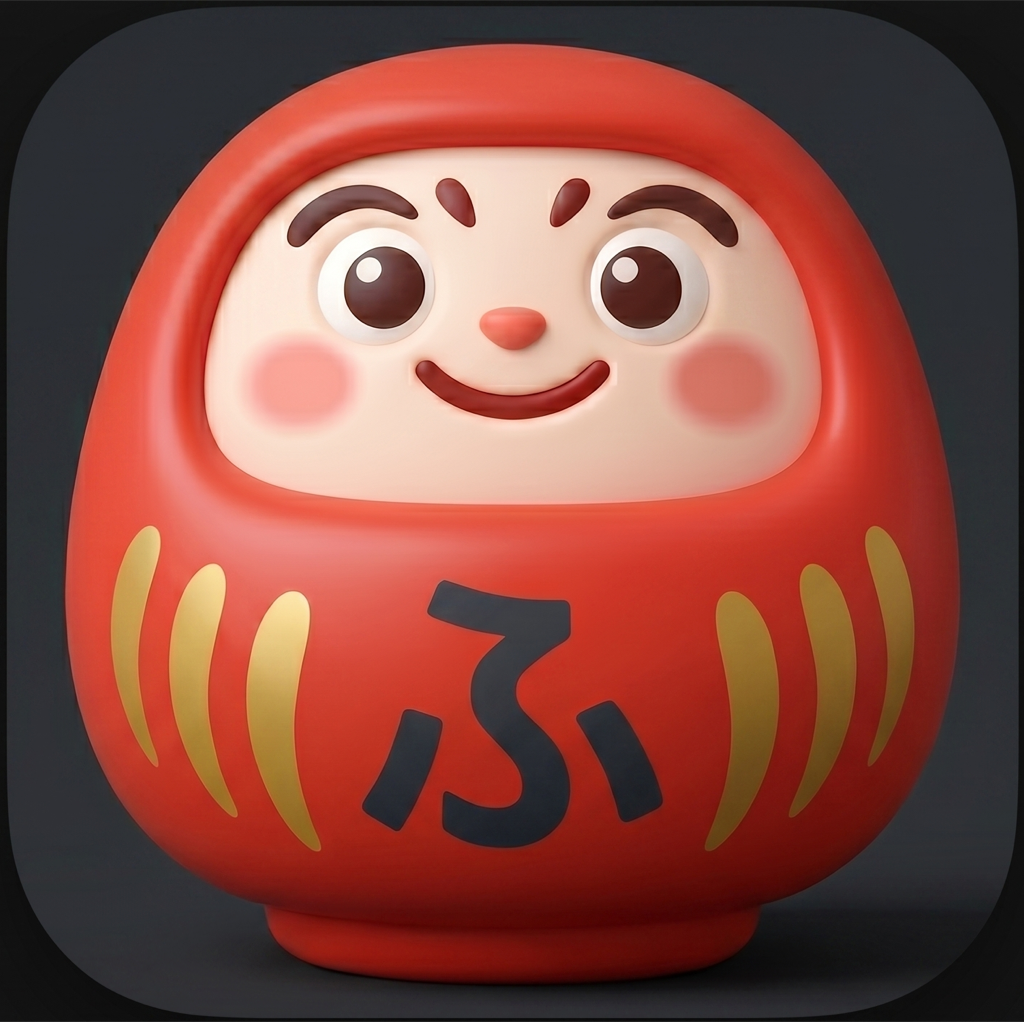
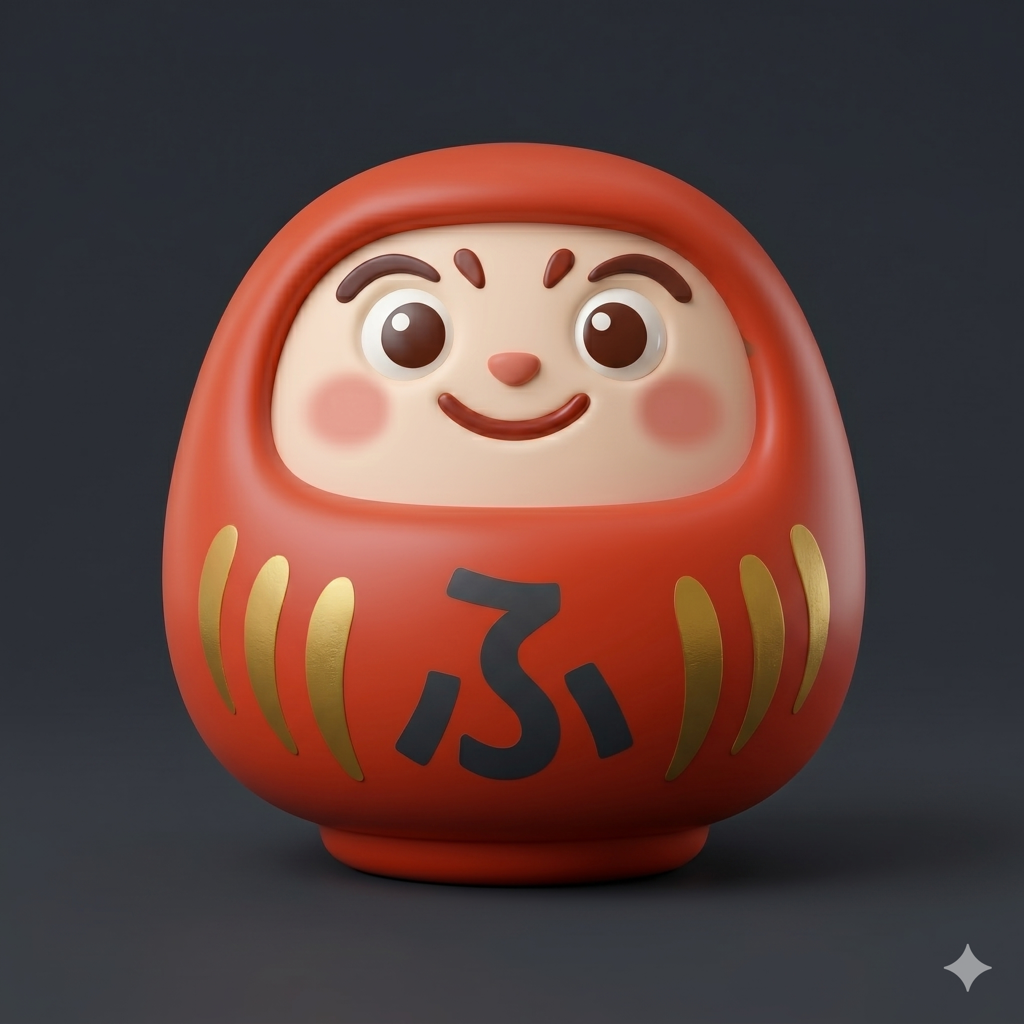
chore: migrate fonts to M PLUS Rounded 1c, remove unused assets, ignore GRAPHICS.md

diff --git a/app/_layout.tsx b/app/_layout.tsx
@@ -11,11 +11,11 @@ import { ThemeProvider } from '../context/ThemeContext';
 
 import { 
   useFonts, 
-  NotoSansJP_400Regular, 
-  NotoSansJP_700Bold, 
-  NotoSansJP_500Medium,
-  NotoSansJP_300Light 
-} from '@expo-google-fonts/noto-sans-jp';
+  MPLUSRounded1c_400Regular, 
+  MPLUSRounded1c_700Bold, 
+  MPLUSRounded1c_500Medium,
+  MPLUSRounded1c_300Light 
+} from '@expo-google-fonts/m-plus-rounded-1c';
 import * as SplashScreen from 'expo-splash-screen';
 
 import { ClerkProvider, ClerkLoaded } from '@clerk/clerk-expo';
@@ -33,10 +33,10 @@ SplashScreen.preventAutoHideAsync();
 
 export default function RootLayout() {
   const [fontsLoaded] = useFonts({
-    NotoSansJP_400Regular,
-    NotoSansJP_700Bold,
-    NotoSansJP_500Medium,
-    NotoSansJP_300Light,
+    NotoSansJP_400Regular: MPLUSRounded1c_400Regular,
+    NotoSansJP_700Bold: MPLUSRounded1c_700Bold,
+    NotoSansJP_500Medium: MPLUSRounded1c_500Medium,
+    NotoSansJP_300Light: MPLUSRounded1c_300Light,
     'KanjiStroke': require('../assets/fonts/KanjiStrokeOrders.ttf'),
   });
 

diff --git a/components/auth/SignInWithOAuth.tsx b/components/auth/SignInWithOAuth.tsx
@@ -3,7 +3,7 @@ import * as WebBrowser from 'expo-web-browser'
 import { Text, View, Pressable, StyleSheet } from 'react-native'
 import { useOAuth } from '@clerk/clerk-expo'
 import * as Linking from 'expo-linking'
-import { Colors } from '../constants/Colors'
+import { Colors } from '../../constants/Colors'
 
 WebBrowser.maybeCompleteAuthSession()
 

diff --git a/hooks/audio/useTts.ts b/hooks/audio/useTts.ts
@@ -12,7 +12,7 @@
  */
 
 import { useState, useEffect, useCallback } from 'react';
-import { TtsService, type TtsState } from '../data/audio/TtsService';
+import { TtsService, type TtsState } from '../../data/audio/TtsService';
 
 export interface UseTtsReturn {
   state:      TtsState;